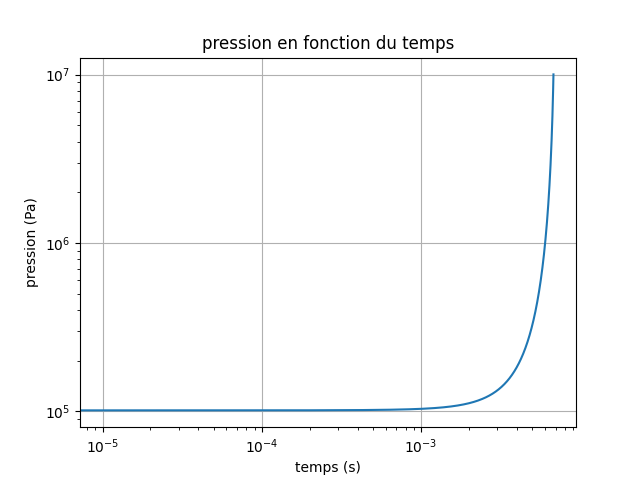
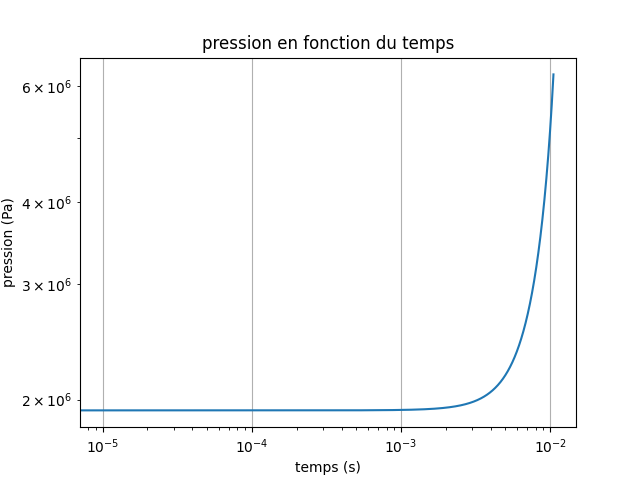
Co-authored-by: jdurand-n7 <jdurand-n7@users.noreply.github.com>

diff --git a/combustion/combustion.py b/combustion/combustion.py
@@ -2,22 +2,24 @@ from math import *
 from math import *
 import numpy as np
 import matplotlib.pyplot as plt
+from matplotlib.ticker import ScalarFormatter
+
 
 # variables temps
 dt = 0.00001
 tf = 10
 t = 0
 
-
 # conditions initiales
-P0 = 101325         # Pa 
-R0 = 0.001          # rayon initiale de la boule allumée
+P0 = 101325        # Pa 
+P1 = 101325*19         # Pa
 T0 = 298.15         # température initiale des gaz frais
+T1 = 572.47          # température avant la combustion
+R0 = 0.001          # rayon initiale de la boule allumée
 R_p = 0.05          # rayon du piston
-V = 4*np.pi*R_p**3/3  # volume du piston
+L_p = 0.03183098862 # longueur du piston
+V = np.pi*R_p**2*L_p  # volume du piston (cylindre)
 
-rho_u = 1.374       
-rho_b = 1.7803e+01         
 gamma = 1.2806
 YF0 = 0.0625         
 
@@ -25,13 +27,13 @@ YF0 = 0.0625
 phi = 1
 alpha = 2.18 - 0.8*(phi-1)
 beta = -0.16 + 0.22*(phi-1)
-B_M = 26.3                      # cm/s
-B_phi = -84.7                    # cm/s
+B_M = 26.3*1e-2                      # m/s
+B_phi = -84.7*1e-2                    # m/s
 phi_M = 1.13
-sL0 = B_M + B_phi*(phi-phi_M)**2    #cm/s
+sL0 = B_M + B_phi*(phi-phi_M)**2    #m/s
 print("alpha = ", alpha)
 print("beta = ", beta)
-print("sL0 = ", sL0)
+print("sL0 (m/s)= ", sL0)            
 
 # Nouvelle corrélation pour sL0
 A = 55.42
@@ -46,43 +48,59 @@ beta_2 = -9.44e-7
 sL0_ref = A + B*(phi - phi_M) + C*(phi - phi_M)**2 + D*(phi - phi_M)**3 + E*(phi - phi_M)**4
 alpha_s = alpha_1 + alpha_2*(phi - phi_M)
 beta_s = beta_1 + beta_2*(phi - phi_M)
-print("sL0_ref = ", sL0_ref)    
-sL0_new = sL0_ref * (T0/298.15)**alpha_s * (P0/101325)**beta_s
-print("sL0_new = ", sL0_new)
+#print("sL0_ref = ", sL0_ref)    
+sL0_new = sL0_ref * (T1/298.15)**alpha_s * (P1/101325)**beta_s*1e-2
+print("sL0_new (m/s) = ", sL0_new)
 
 r_mel = 8.314 / 0.03041748131
 r_bru = 290.7628415
+
 rho_gf = 1.393919518
 rho_gb = 1.7803e1
 
-
 # Variables en t 
 sL_t = sL0
-T_gf_t = T0
+T_gf_t = T1
 T_gb_t = 2839.52    # température de fin de combustion (calculée pour isochore)
-r_t = R0            # mm 
-P_t = P0            # Pa
+r_t = R0            # m
+P_t = P1            # Pa
 QF = 44.7e6         # J/kg QLHV pouvoir calorifique du carburant
 i=0
+masse_gb = 4/3*np.pi*r_t**3*rho_gb
+masse_gf = (V - 4/3*np.pi*r_t**3)*rho_gf     
+masse_tot = masse_gb + masse_gf 
+print("masse totale = ", masse_tot)
+print("masse gaz frais = ", masse_gf)
+print("masse gaz brûlés = ", masse_gb)
 
 # variables à stocker
 t_tot = [0]
-P_tot = [P0]
-T_gf_tot = [T0]
+P_tot = [P1]
+T_gf_tot = [T1]
 T_gb_tot = [2839.52]
 sL_tot = [sL0]
 r_tot = [R0]  
-
+rho_gb_tot = [rho_gb]
+rho_gf_tot = [rho_gf]
+masse_gb_tot = [masse_gb]
+masse_total = [masse_tot]
+masse_gf_tot = [masse_gf]
 
 while r_t < 0.9*R_p :
-    T_gb_dt = 2839.52 + 1091.5625/1423.522842 * (T_gf_t - T0)
+    T_gb_dt = 2839.52 + (1+1091.5625/1423.522842) * (T_gf_t - T0)
     P_dt = P_t + dt * (gamma-1)/V * QF * (4*np.pi * r_t**2 * rho_gf * sL_t*YF0)
-    r_dt = r_t + dt * (rho_gf/rho_b) * sL0*(T_gf_t/T0)**alpha * (P_t/P0)**beta
+    r_dt = r_t + dt * (rho_gf/rho_gb) * sL0*(T_gf_t/T0)**alpha * (P_t/P0)**beta
     #r_dt = r_t + dt * (rho_gf/rho_b) * sL_t
     sL_dt = sL0 * (T_gf_t/T0)**alpha * (P_t/P0)**beta
     T_gf_dt = T_gf_t * ((R_p ** 3 - r_t ** 3) / (R_p ** 3 - r_dt ** 3)) ** (gamma - 1)
+
+
     rho_gf = P_dt / (r_mel * T_gf_dt)
     rho_gb = P_dt / (r_bru * T_gb_dt)
+    masse_gb = 4/3*np.pi*r_dt**3*rho_gb
+    masse_gf = (V - 4/3*np.pi*r_t**3)*rho_gf     
+    #masse_gf  = rho_gf * sL_t  * 4*np.pi*r_t**2*
+    masse_tot = masse_gb + masse_gf
     i+=1
 
     # changement des valeurs de variables avant l'itération suivante
@@ -100,11 +118,16 @@ while r_t < 0.9*R_p :
     T_gb_tot.append(T_gb_t)
     sL_tot.append(sL_t)
     r_tot.append(r_t)
-    
+    rho_gb_tot.append(rho_gb)
+    rho_gf_tot.append(rho_gf)
+    masse_gb_tot.append(masse_gb)
+    masse_gf_tot.append(masse_gf)
+    masse_total.append(masse_tot)
+
 #print('temp gaz frais : ' + str(T_gf_tot))    
 print('temps de combustion : ' + str(t))
 print('itérations : ' + str(i))
-
+print('vitesse de flamme :' + str(sL_tot[-1]))
 # Tracé des courbes
 plt.figure(1)
 plt.loglog(t_tot, P_tot)
@@ -131,6 +154,39 @@ plt.grid()
 plt.savefig('temp_gf.png')
 
 plt.figure(4)
+plt.loglog(t_tot, masse_gf_tot, label='gaz frais')
+plt.loglog(t_tot, masse_gb_tot, label='gaz brûlés')
+plt.loglog(t_tot, masse_total, label='total')
+plt.xlabel('temps (s)')
+plt.ylabel('masse des gaz (kg)')
+plt.title('masse des gaz en fonction du temps')
+plt.legend()
+plt.grid()
+# Formatage en écriture scientifique pour l'axe des x
+ax = plt.gca()  # Récupérer les axes actuels
+ax.xaxis.set_major_formatter(ScalarFormatter(useMathText=True))
+ax.xaxis.get_major_formatter().set_scientific(True)
+ax.xaxis.get_major_formatter().set_powerlimits((0, 0))  # Force l'affichage scientifique
+plt.savefig('masse_loglog.png')
+
+plt.figure(5)
+plt.plot(t_tot, masse_gf_tot, label='gaz frais')
+plt.plot(t_tot, masse_gb_tot, label='gaz brûlés')
+plt.plot(t_tot, masse_total, label='total')
+plt.xlabel('temps (s)')
+plt.ylabel('masse des gaz (kg)')
+plt.title('masse des gaz en fonction du temps')
+plt.legend()
+plt.grid()
+# Formatage en écriture scientifique pour l'axe des x
+ax = plt.gca()  # Récupérer les axes actuels
+ax.xaxis.set_major_formatter(ScalarFormatter(useMathText=True))
+ax.xaxis.get_major_formatter().set_scientific(True)
+ax.xaxis.get_major_formatter().set_powerlimits((0, 0))  # Force l'affichage scientifique
+plt.savefig('masse.png')
+
+
+plt.figure(6)
 plt.loglog(t_tot, r_tot)
 plt.xlabel('temps (s)')
 plt.ylabel('rayon de la boule (m)')
@@ -138,7 +194,25 @@ plt.title('rayon de la boule en fonction du temps')
 plt.grid()
 plt.savefig('rayon.png')
 
+plt.figure(7)
+plt.loglog(t_tot, sL_tot)
+plt.xlabel('temps (s)')
+plt.ylabel('vitesse de flamme (m/s)')
+plt.title('vitesse de flamme en fonction du temps')
+plt.grid()
+plt.savefig('vitesse_flamme.png')
+
+
+# calcul angle nécessaire à la combustion
+
+N_ralenti = 1200 #tr/min
+N_nominal = 12000 #tr/min
+
+angle_ralenti = 1200 / 60 * t * 360 #en °
+angle_nominal = 12000 / 60 * t * 360 #en °
+
+print('Angle nécessaire à la combustion (ralenti) : ' + str(angle_ralenti))
+print('Angle nécessaire à la combustion (nominal) : ' + str(angle_nominal))
+
 
 plt.show()
-
-

diff --git a/cycle_isochore/bes.py b/cycle_isochore/bes.py
@@ -19,9 +19,9 @@ R = L/2
 # Définition de la vitesse à partir de la position 
 angle = np.linspace(0, 720, 721)
 theta= np.radians(angle)
-x = R * np.cos(np.radians(angle))
-y = R * np.sin(np.radians(angle))
-z = np.sqrt(x**2 + y**2)
+#x = R * np.cos(np.radians(angle))
+#y = R * np.sin(np.radians(angle))
+#z = np.sqrt(x**2 + y**2)
 
 # Calcul du volume en fonction de l'angle
 term = 3.5**2 - np.sin(theta)**2
